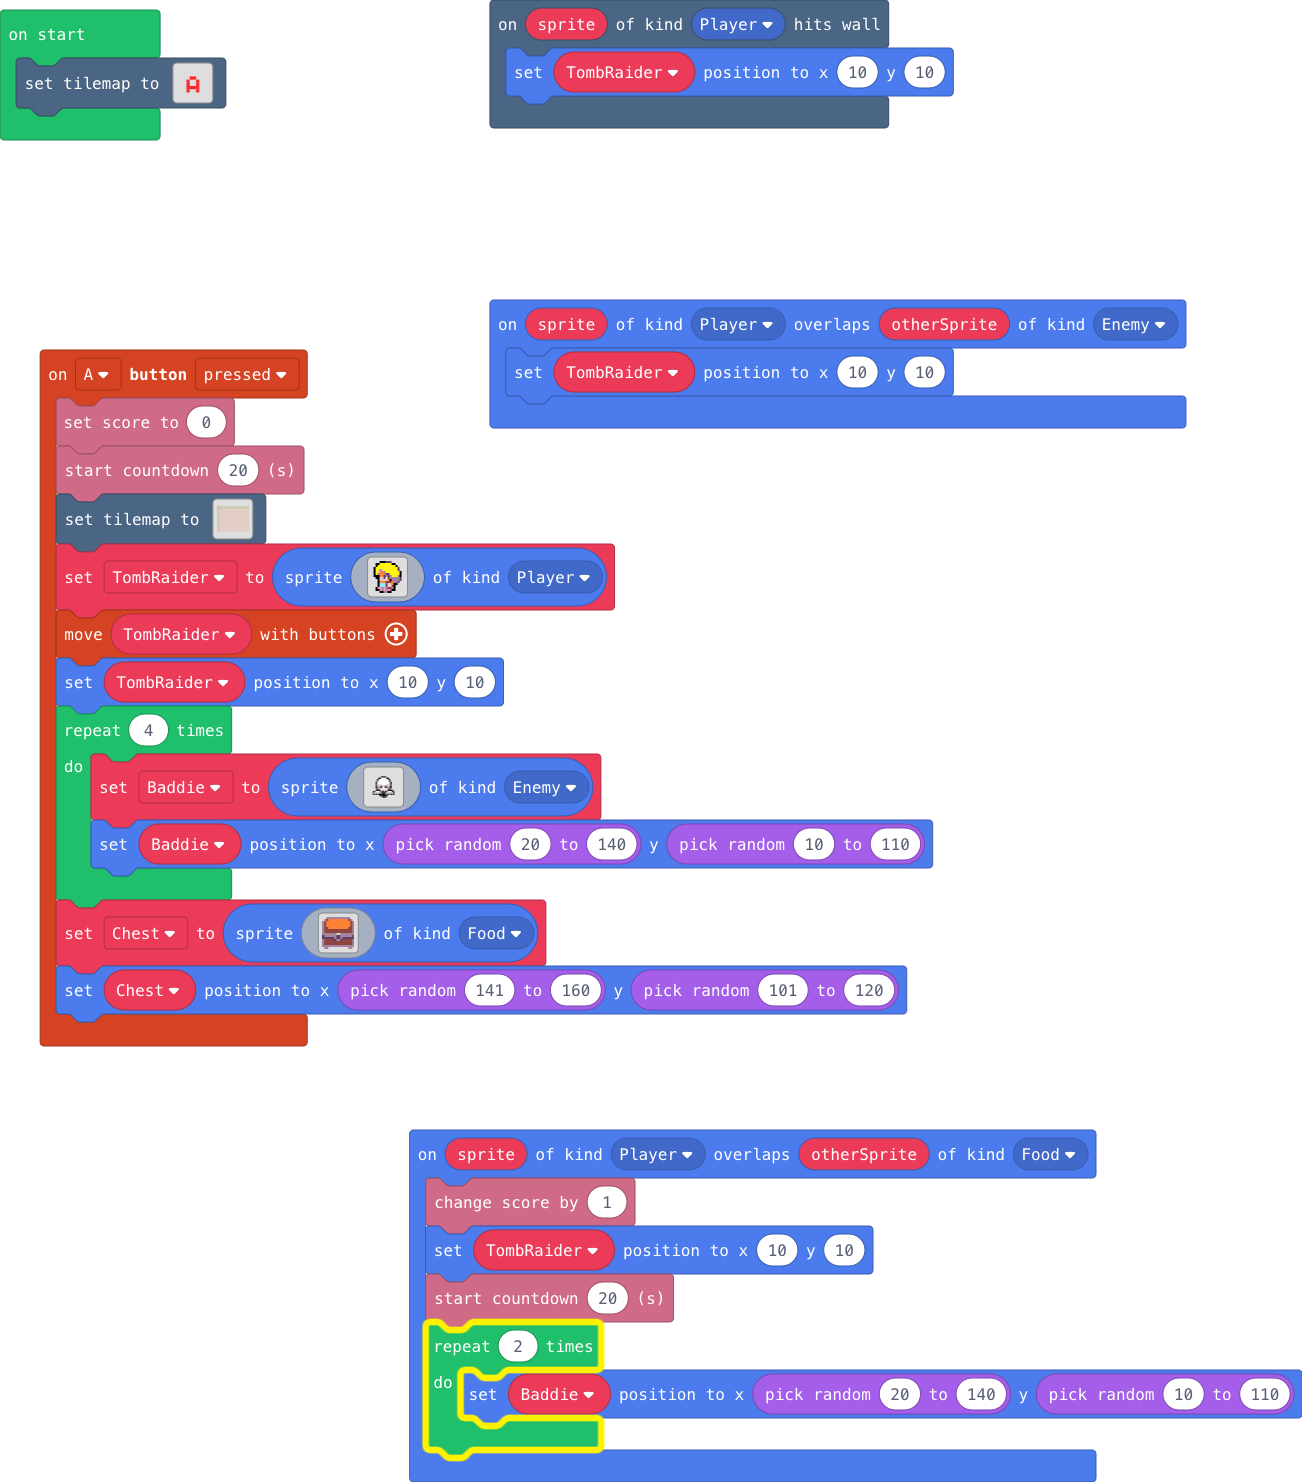
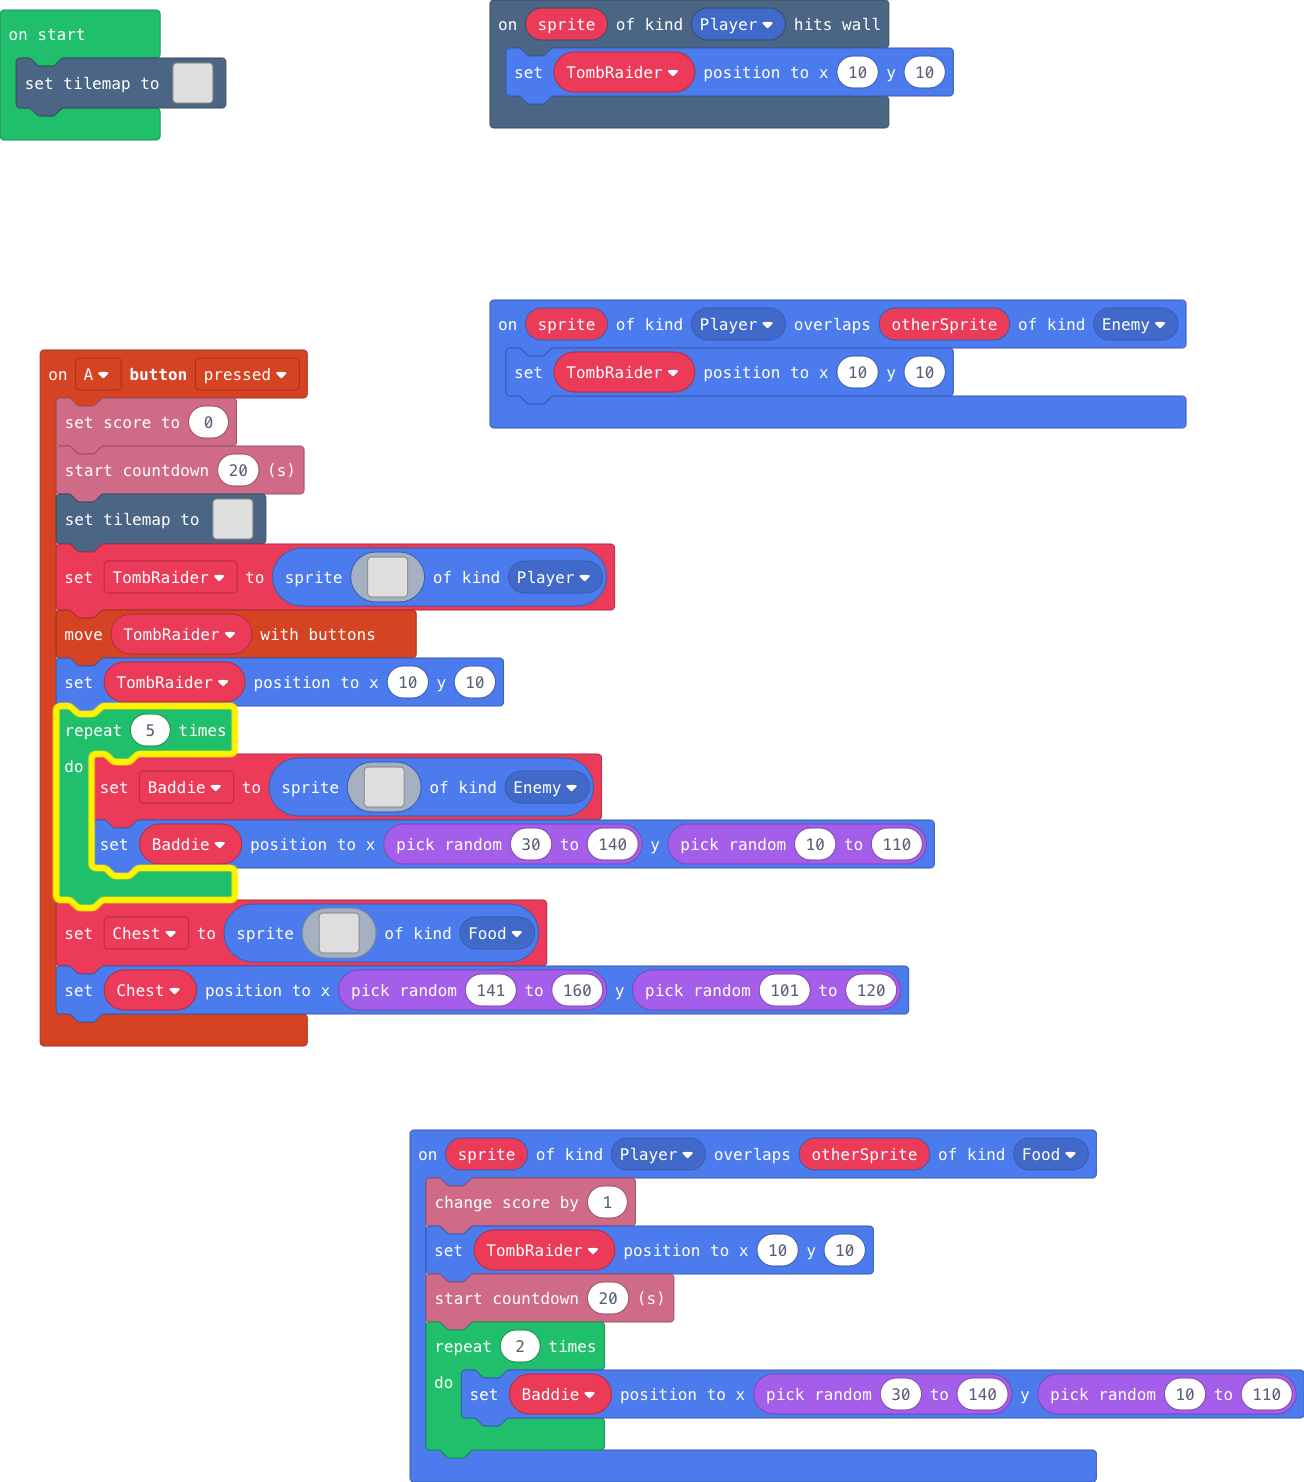
Update main.blocks, main.ts

diff --git a/main.ts b/main.ts
@@ -65,7 +65,7 @@ sprites.onOverlap(SpriteKind.Player, SpriteKind.Food, function (sprite, otherSpr
     TombRaider.setPosition(10, 10)
     info.startCountdown(20)
     for (let index = 0; index < 2; index++) {
-        Baddie.setPosition(Math.randomRange(20, 140), Math.randomRange(10, 110))
+        Baddie.setPosition(Math.randomRange(30, 140), Math.randomRange(10, 110))
     }
 })
 controller.A.onEvent(ControllerButtonEvent.Pressed, function () {
@@ -106,7 +106,7 @@ f f f 4 4 c b c b 5 5 5 b f
 `, SpriteKind.Player)
     controller.moveSprite(TombRaider)
     TombRaider.setPosition(10, 10)
-    for (let index = 0; index < 4; index++) {
+    for (let index = 0; index < 5; index++) {
         Baddie = sprites.create(img`
 . . . . . . . . . . . . . . . . . . . . . . . . 
 . . . . . . . . . . . . . . . . . . . . . . . . 
@@ -133,7 +133,7 @@ f f f 4 4 c b c b 5 5 5 b f
 . . . . . . . . . . . . . . . . . . . . . . . . 
 . . . . . . . . . . . . . . . . . . . . . . . . 
 `, SpriteKind.Enemy)
-        Baddie.setPosition(Math.randomRange(20, 140), Math.randomRange(10, 110))
+        Baddie.setPosition(Math.randomRange(30, 140), Math.randomRange(10, 110))
     }
     Chest = sprites.create(img`
 . . b b b b b b b b b b b b . . 
